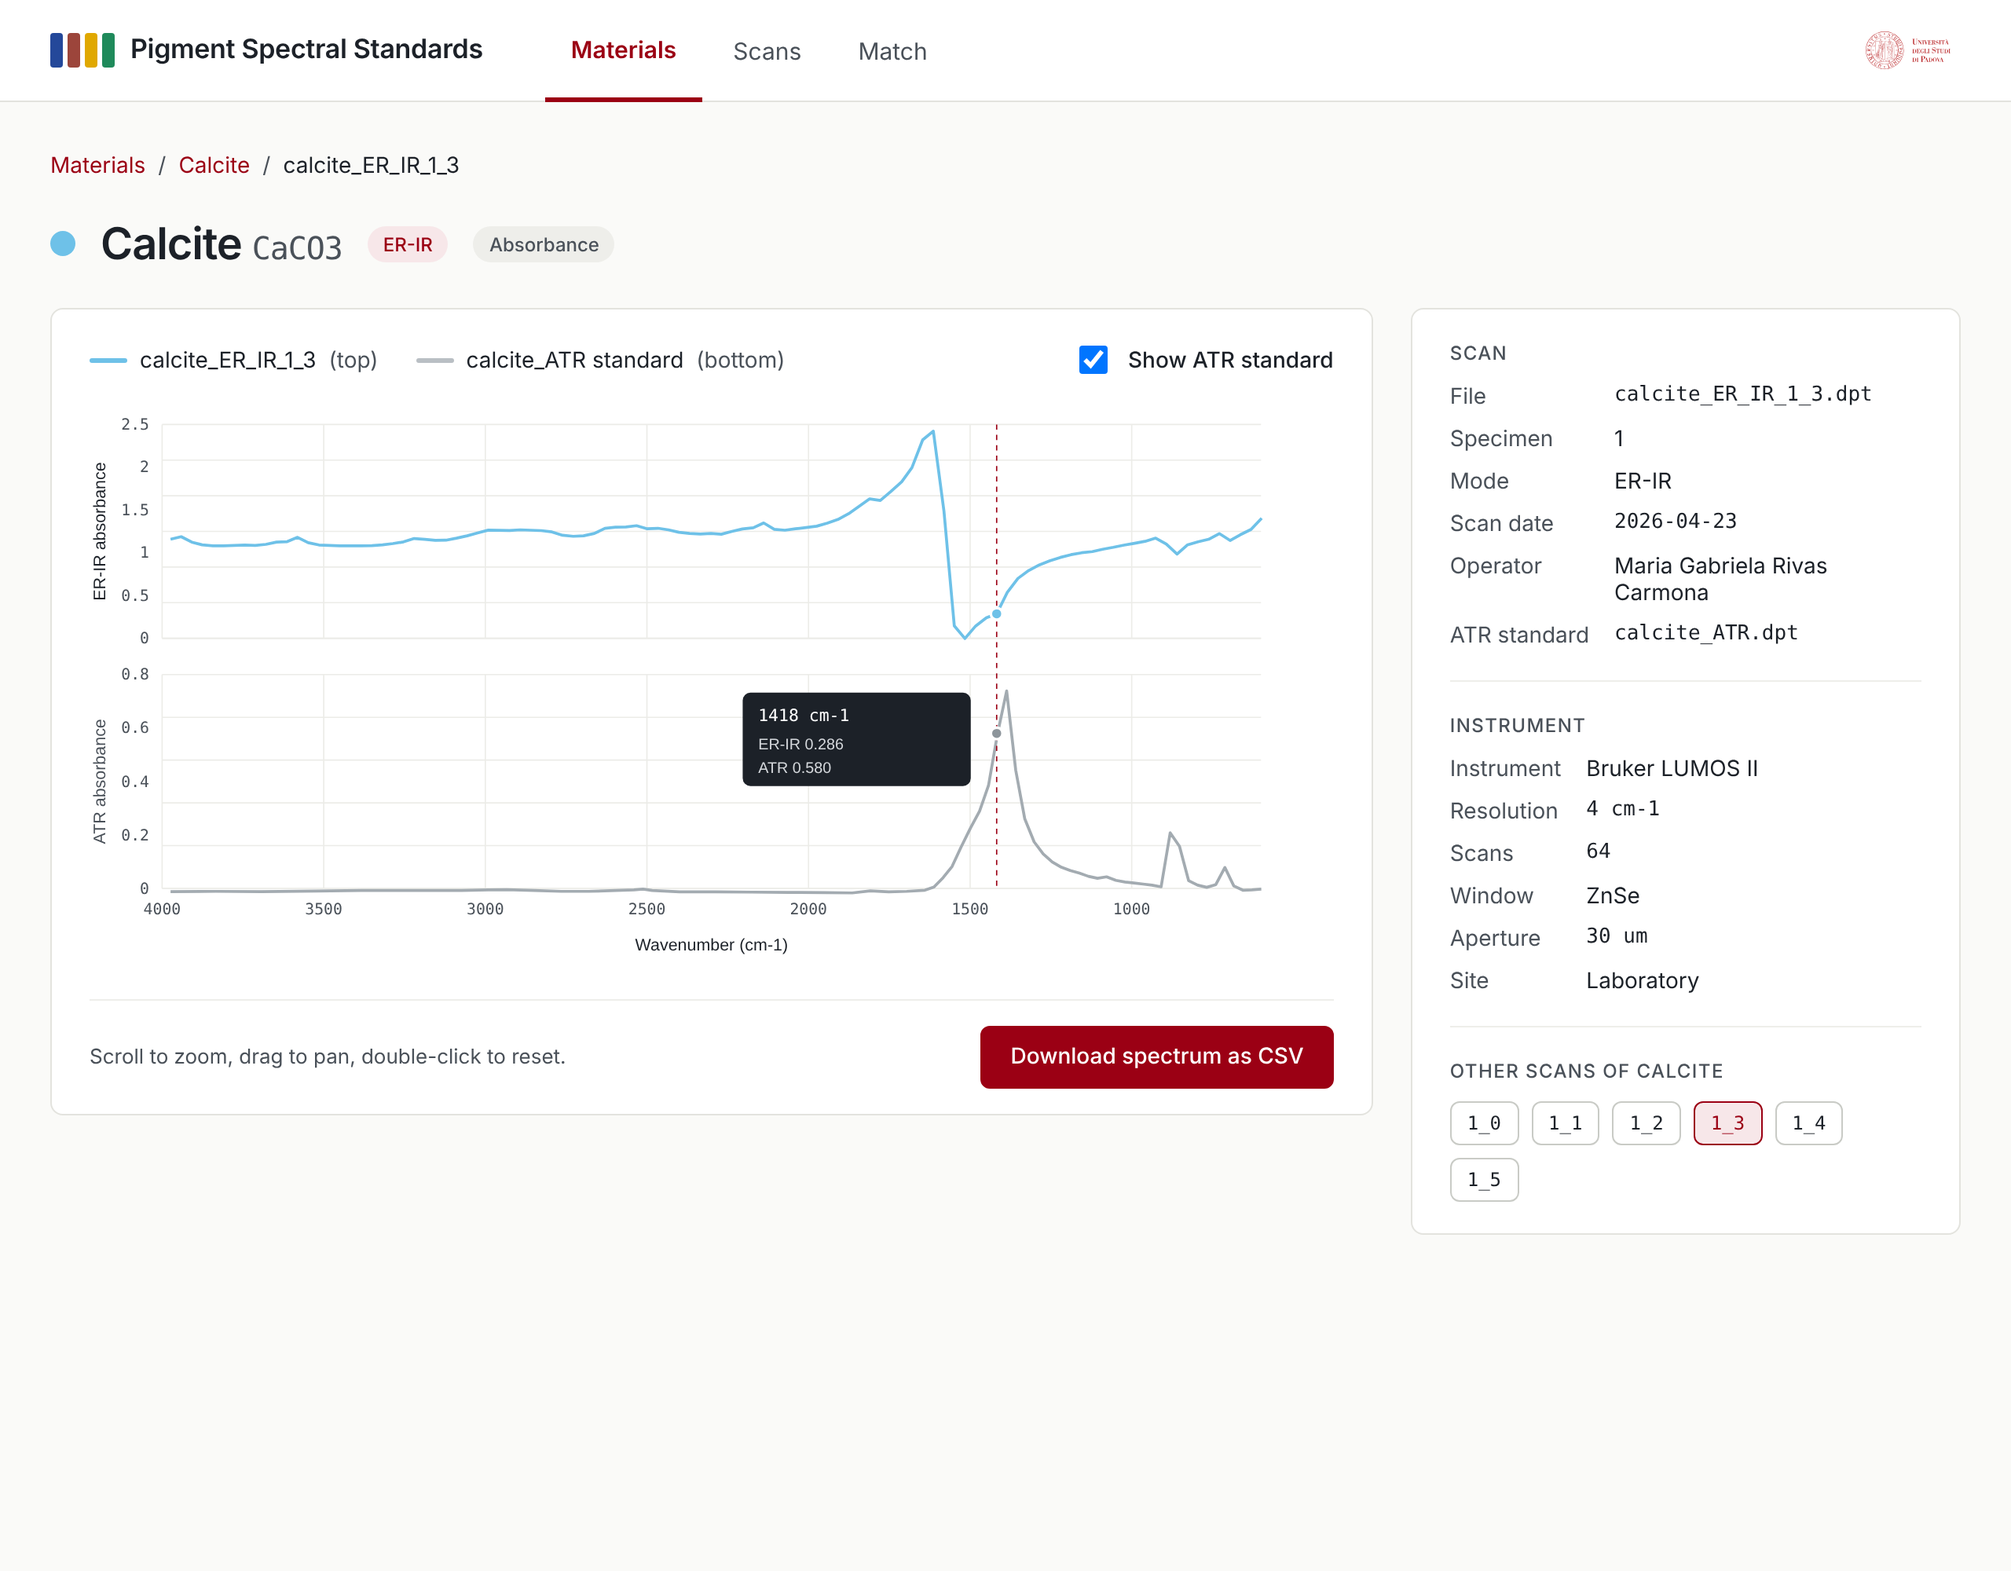
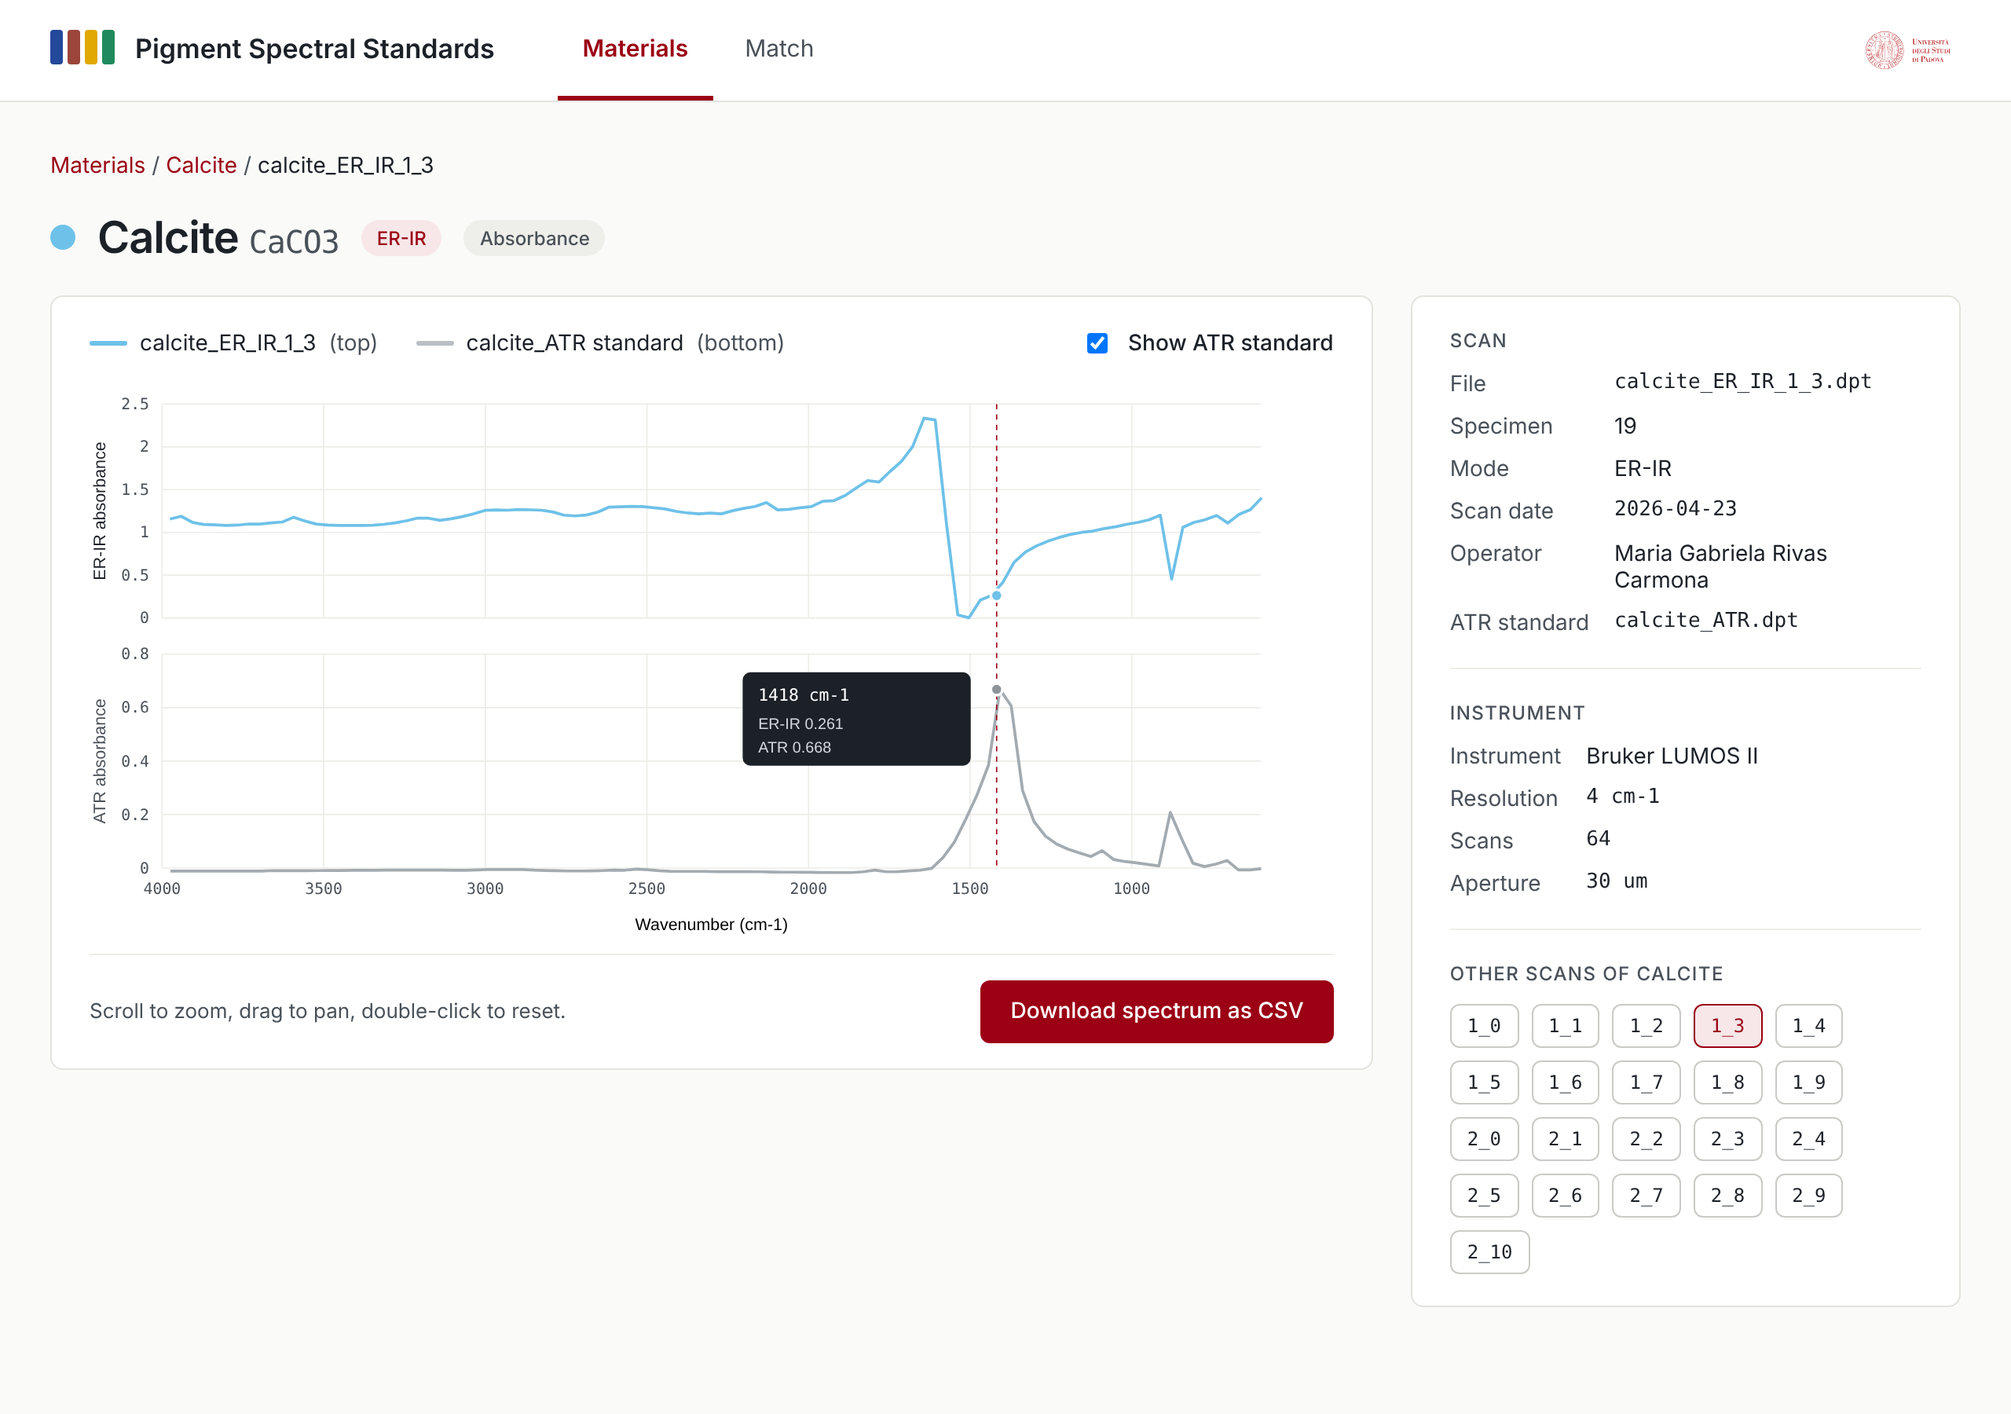
Mock-up: fix scan page to match the database (specimen 19, 21 calcite scans, no window or site rows); remove the separate Scans menu tab; re-render Figs 5.1-5.3
Claude-Session: https://claude.ai/code/session_01NLgYW8yJSeCtEKVkxKcHsd

diff --git a/ui/scan.html b/ui/scan.html
@@ -20,12 +20,12 @@ h2.s{margin:0 0 12px;font-size:12px;letter-spacing:.06em;text-transform:uppercas
 table{width:100%;border-collapse:collapse;font-size:15px}th{text-align:left;font:500 12px 'IBM Plex Mono',monospace;letter-spacing:.06em;color:#4a5159;padding:16px;border-bottom:1px solid #e3e3de}
 td{padding:13px 16px;border-bottom:1px solid #eeeeea}td.n,th.n{text-align:right}
 dl{margin:0;display:grid;grid-template-columns:auto 1fr;gap:10px 16px;font-size:14px}dt{color:#4a5159}dd{margin:0}
-</style></head><body><header><div class="brand"><span><i style="background:#24489a"></i><i style="background:#9C453B"></i><i style="background:#e0a800"></i><i style="background:#1f8a5b"></i></span>Pigment Spectral Standards</div><nav><a href="materials.html" class="on">Materials</a><a href="scan.html" class="">Scans</a><a href="match.html" class="">Match</a></nav><img src="unipd-logo.svg" alt="Università degli Studi di Padova"></header><main><div style="font-size:14px;color:#4a5159"><a href="materials.html">Materials</a> / <a href="materials.html">Calcite</a> / <span style="color:#1c2128">calcite_ER_IR_1_3</span></div>
+</style></head><body><header><div class="brand"><span><i style="background:#24489a"></i><i style="background:#9C453B"></i><i style="background:#e0a800"></i><i style="background:#1f8a5b"></i></span>Pigment Spectral Standards</div><nav><a href="materials.html" class="on">Materials</a><a href="match.html" class="">Match</a></nav><img src="unipd-logo.svg" alt="Università degli Studi di Padova"></header><main><div style="font-size:14px;color:#4a5159"><a href="materials.html">Materials</a> / <a href="materials.html">Calcite</a> / <span style="color:#1c2128">calcite_ER_IR_1_3</span></div>
 <div style="display:flex;align-items:center;gap:14px;flex-wrap:wrap"><span style="width:16px;height:16px;border-radius:50%;background:#6EC1E8"></span><h1 style="font-size:28px;font-weight:600">Calcite <span class="mono" style="font-size:20px;font-weight:400;color:#4a5159">CaCO3</span></h1><span class="pill" style="background:#f7e7e9;color:#9b0014">ER-IR</span><span class="pill" style="background:#eeeeea;color:#4a5159">Absorbance</span></div>
 <div class="cols"><section class="card" style="flex:999 1 640px;min-width:0;padding:20px 24px 16px"><div style="display:flex;justify-content:space-between;flex-wrap:wrap;gap:12px;font-size:14px"><div style="display:flex;gap:24px"><span style="display:flex;align-items:center;gap:8px"><i style="width:24px;height:3px;background:#6EC1E8;border-radius:2px"></i>calcite_ER_IR_1_3 <span style="color:#4a5159">(top)</span></span><span style="display:flex;align-items:center;gap:8px"><i style="width:24px;height:3px;background:#b9bfc4;border-radius:2px"></i>calcite_ATR standard <span style="color:#4a5159">(bottom)</span></span></div><label style="font-weight:500;display:flex;gap:10px;align-items:center"><input type="checkbox" checked> Show ATR standard</label></div>
 <svg id="p" viewBox="0 0 960 440" style="width:100%;height:auto;display:block;margin-top:16px" role="img" aria-label="Absorbance spectrum of calcite ER-IR scan 1_3 with the ATR standard stacked below it"></svg>
 <div style="display:flex;justify-content:space-between;align-items:center;flex-wrap:wrap;gap:12px;border-top:1px solid #eeeeea;padding-top:16px"><span style="font-size:13px;color:#4a5159">Scroll to zoom, drag to pan, double-click to reset.</span><button class="btn2">Download spectrum as CSV</button></div></section>
-<aside class="card" style="flex:1 1 300px;display:flex;flex-direction:column;gap:20px;padding:20px 24px"><div><h2 class="s">Scan</h2><dl><dt>File</dt><dd class="mono" style="font-size:13px">calcite_ER_IR_1_3.dpt</dd><dt>Specimen</dt><dd>1</dd><dt>Mode</dt><dd>ER-IR</dd><dt>Scan date</dt><dd class="mono" style="font-size:13px">2026-04-23</dd><dt>Operator</dt><dd>Maria Gabriela Rivas Carmona</dd><dt>ATR standard</dt><dd class="mono" style="font-size:13px">calcite_ATR.dpt</dd></dl></div>
-<div style="border-top:1px solid #eeeeea;padding-top:20px"><h2 class="s">Instrument</h2><dl><dt>Instrument</dt><dd>Bruker LUMOS II</dd><dt>Resolution</dt><dd class="mono" style="font-size:13px">4 cm-1</dd><dt>Scans</dt><dd class="mono" style="font-size:13px">64</dd><dt>Window</dt><dd>ZnSe</dd><dt>Aperture</dt><dd class="mono" style="font-size:13px">30 um</dd><dt>Site</dt><dd>Laboratory</dd></dl></div>
-<div style="border-top:1px solid #eeeeea;padding-top:20px"><h2 class="s">Other scans of calcite</h2><div style="display:flex;flex-wrap:wrap;gap:8px"><a style="font:12px IBM Plex Mono,monospace;padding:6px 10px;border:1px solid #c9cbc6;background:#fff;color:#1c2128;border-radius:6px">1_0</a><a style="font:12px IBM Plex Mono,monospace;padding:6px 10px;border:1px solid #c9cbc6;background:#fff;color:#1c2128;border-radius:6px">1_1</a><a style="font:12px IBM Plex Mono,monospace;padding:6px 10px;border:1px solid #c9cbc6;background:#fff;color:#1c2128;border-radius:6px">1_2</a><a style="font:12px IBM Plex Mono,monospace;padding:6px 10px;border:1px solid #9b0014;background:#f7e7e9;color:#9b0014;border-radius:6px">1_3</a><a style="font:12px IBM Plex Mono,monospace;padding:6px 10px;border:1px solid #c9cbc6;background:#fff;color:#1c2128;border-radius:6px">1_4</a><a style="font:12px IBM Plex Mono,monospace;padding:6px 10px;border:1px solid #c9cbc6;background:#fff;color:#1c2128;border-radius:6px">1_5</a></div></div></aside></div>
+<aside class="card" style="flex:1 1 300px;display:flex;flex-direction:column;gap:20px;padding:20px 24px"><div><h2 class="s">Scan</h2><dl><dt>File</dt><dd class="mono" style="font-size:13px">calcite_ER_IR_1_3.dpt</dd><dt>Specimen</dt><dd>19</dd><dt>Mode</dt><dd>ER-IR</dd><dt>Scan date</dt><dd class="mono" style="font-size:13px">2026-04-23</dd><dt>Operator</dt><dd>Maria Gabriela Rivas Carmona</dd><dt>ATR standard</dt><dd class="mono" style="font-size:13px">calcite_ATR.dpt</dd></dl></div>
+<div style="border-top:1px solid #eeeeea;padding-top:20px"><h2 class="s">Instrument</h2><dl><dt>Instrument</dt><dd>Bruker LUMOS II</dd><dt>Resolution</dt><dd class="mono" style="font-size:13px">4 cm-1</dd><dt>Scans</dt><dd class="mono" style="font-size:13px">64</dd><dt>Aperture</dt><dd class="mono" style="font-size:13px">30 um</dd></dl></div>
+<div style="border-top:1px solid #eeeeea;padding-top:20px"><h2 class="s">Other scans of calcite</h2><div style="display:flex;flex-wrap:wrap;gap:8px"><a style="font:12px IBM Plex Mono,monospace;padding:6px 10px;border:1px solid #c9cbc6;background:#fff;color:#1c2128;border-radius:6px">1_0</a><a style="font:12px IBM Plex Mono,monospace;padding:6px 10px;border:1px solid #c9cbc6;background:#fff;color:#1c2128;border-radius:6px">1_1</a><a style="font:12px IBM Plex Mono,monospace;padding:6px 10px;border:1px solid #c9cbc6;background:#fff;color:#1c2128;border-radius:6px">1_2</a><a style="font:12px IBM Plex Mono,monospace;padding:6px 10px;border:1px solid #9b0014;background:#f7e7e9;color:#9b0014;border-radius:6px">1_3</a><a style="font:12px IBM Plex Mono,monospace;padding:6px 10px;border:1px solid #c9cbc6;background:#fff;color:#1c2128;border-radius:6px">1_4</a><a style="font:12px IBM Plex Mono,monospace;padding:6px 10px;border:1px solid #c9cbc6;background:#fff;color:#1c2128;border-radius:6px">1_5</a><a style="font:12px IBM Plex Mono,monospace;padding:6px 10px;border:1px solid #c9cbc6;background:#fff;color:#1c2128;border-radius:6px">1_6</a><a style="font:12px IBM Plex Mono,monospace;padding:6px 10px;border:1px solid #c9cbc6;background:#fff;color:#1c2128;border-radius:6px">1_7</a><a style="font:12px IBM Plex Mono,monospace;padding:6px 10px;border:1px solid #c9cbc6;background:#fff;color:#1c2128;border-radius:6px">1_8</a><a style="font:12px IBM Plex Mono,monospace;padding:6px 10px;border:1px solid #c9cbc6;background:#fff;color:#1c2128;border-radius:6px">1_9</a><a style="font:12px IBM Plex Mono,monospace;padding:6px 10px;border:1px solid #c9cbc6;background:#fff;color:#1c2128;border-radius:6px">2_0</a><a style="font:12px IBM Plex Mono,monospace;padding:6px 10px;border:1px solid #c9cbc6;background:#fff;color:#1c2128;border-radius:6px">2_1</a><a style="font:12px IBM Plex Mono,monospace;padding:6px 10px;border:1px solid #c9cbc6;background:#fff;color:#1c2128;border-radius:6px">2_2</a><a style="font:12px IBM Plex Mono,monospace;padding:6px 10px;border:1px solid #c9cbc6;background:#fff;color:#1c2128;border-radius:6px">2_3</a><a style="font:12px IBM Plex Mono,monospace;padding:6px 10px;border:1px solid #c9cbc6;background:#fff;color:#1c2128;border-radius:6px">2_4</a><a style="font:12px IBM Plex Mono,monospace;padding:6px 10px;border:1px solid #c9cbc6;background:#fff;color:#1c2128;border-radius:6px">2_5</a><a style="font:12px IBM Plex Mono,monospace;padding:6px 10px;border:1px solid #c9cbc6;background:#fff;color:#1c2128;border-radius:6px">2_6</a><a style="font:12px IBM Plex Mono,monospace;padding:6px 10px;border:1px solid #c9cbc6;background:#fff;color:#1c2128;border-radius:6px">2_7</a><a style="font:12px IBM Plex Mono,monospace;padding:6px 10px;border:1px solid #c9cbc6;background:#fff;color:#1c2128;border-radius:6px">2_8</a><a style="font:12px IBM Plex Mono,monospace;padding:6px 10px;border:1px solid #c9cbc6;background:#fff;color:#1c2128;border-radius:6px">2_9</a><a style="font:12px IBM Plex Mono,monospace;padding:6px 10px;border:1px solid #c9cbc6;background:#fff;color:#1c2128;border-radius:6px">2_10</a></div></div></aside></div>
 </main><script src="data.js"></script><script src="plot.js"></script><script src="scan.js"></script></body></html>

diff --git a/ui/match.html b/ui/match.html
@@ -20,7 +20,7 @@ h2.s{margin:0 0 12px;font-size:12px;letter-spacing:.06em;text-transform:uppercas
 table{width:100%;border-collapse:collapse;font-size:15px}th{text-align:left;font:500 12px 'IBM Plex Mono',monospace;letter-spacing:.06em;color:#4a5159;padding:16px;border-bottom:1px solid #e3e3de}
 td{padding:13px 16px;border-bottom:1px solid #eeeeea}td.n,th.n{text-align:right}
 dl{margin:0;display:grid;grid-template-columns:auto 1fr;gap:10px 16px;font-size:14px}dt{color:#4a5159}dd{margin:0}
-</style></head><body><header><div class="brand"><span><i style="background:#24489a"></i><i style="background:#9C453B"></i><i style="background:#e0a800"></i><i style="background:#1f8a5b"></i></span>Pigment Spectral Standards</div><nav><a href="materials.html" class="">Materials</a><a href="scan.html" class="">Scans</a><a href="match.html" class="on">Match</a></nav><img src="unipd-logo.svg" alt="Università degli Studi di Padova"></header><main><div style="display:flex;justify-content:space-between;align-items:flex-end;gap:16px;flex-wrap:wrap"><div><h1>Match an unknown spectrum</h1><p class="lead" style="margin-top:12px">Upload an ER-IR spectrum and find the closest standards. Your file is used in your browser only and is never saved.</p></div><span style="font-size:13px;font-weight:500;padding:6px 14px;border-radius:999px;background:#fdf1cf;border:1px solid #f0d98a;color:#6b4e00">Mockup: scores and the unknown spectrum are example data</span></div>
+</style></head><body><header><div class="brand"><span><i style="background:#24489a"></i><i style="background:#9C453B"></i><i style="background:#e0a800"></i><i style="background:#1f8a5b"></i></span>Pigment Spectral Standards</div><nav><a href="materials.html" class="">Materials</a><a href="match.html" class="on">Match</a></nav><img src="unipd-logo.svg" alt="Università degli Studi di Padova"></header><main><div style="display:flex;justify-content:space-between;align-items:flex-end;gap:16px;flex-wrap:wrap"><div><h1>Match an unknown spectrum</h1><p class="lead" style="margin-top:12px">Upload an ER-IR spectrum and find the closest standards. Your file is used in your browser only and is never saved.</p></div><span style="font-size:13px;font-weight:500;padding:6px 14px;border-radius:999px;background:#fdf1cf;border:1px solid #f0d98a;color:#6b4e00">Mockup: scores and the unknown spectrum are example data</span></div>
 <div class="cols"><div style="flex:1 1 340px;max-width:380px;display:flex;flex-direction:column;gap:20px">
 <div class="card"><h2 class="s">1. Your spectrum</h2><div style="border:1.5px dashed #c9cbc6;border-radius:8px;padding:20px"><div style="font-weight:500">Drop a file here, or choose one</div><p style="font-size:13px;color:#4a5159;line-height:1.5">.dpt, .csv or .txt with two columns: wavenumber and intensity. Must be <b>absorbance</b>, within 650 to 3990 cm-1.</p><button style="height:40px;padding:0 16px;border:1px solid #9b0014;color:#9b0014;background:#fff;border-radius:6px;font:inherit;font-weight:500">Choose file</button></div>
 <div style="margin-top:14px;background:#eaf4ec;border-radius:6px;padding:12px;display:flex;justify-content:space-between;gap:8px;font-size:13px"><span class="mono" style="color:#1d5a35">unknown_object_spot3.dpt</span><span style="color:#4a5159">1,660 points, accepted</span></div></div>

diff --git a/ui/materials.html b/ui/materials.html
@@ -20,7 +20,7 @@ h2.s{margin:0 0 12px;font-size:12px;letter-spacing:.06em;text-transform:uppercas
 table{width:100%;border-collapse:collapse;font-size:15px}th{text-align:left;font:500 12px 'IBM Plex Mono',monospace;letter-spacing:.06em;color:#4a5159;padding:16px;border-bottom:1px solid #e3e3de}
 td{padding:13px 16px;border-bottom:1px solid #eeeeea}td.n,th.n{text-align:right}
 dl{margin:0;display:grid;grid-template-columns:auto 1fr;gap:10px 16px;font-size:14px}dt{color:#4a5159}dd{margin:0}
-</style></head><body><header><div class="brand"><span><i style="background:#24489a"></i><i style="background:#9C453B"></i><i style="background:#e0a800"></i><i style="background:#1f8a5b"></i></span>Pigment Spectral Standards</div><nav><a href="materials.html" class="on">Materials</a><a href="scan.html" class="">Scans</a><a href="match.html" class="">Match</a></nav><img src="unipd-logo.svg" alt="Università degli Studi di Padova"></header><main><h1>Materials</h1><p class="lead">Paired ER-IR and ATR spectra of mineral pigment standards, measured on a Bruker LUMOS II. ER-IR is what can be taken on an object; ATR is the reference it is compared with.</p>
+</style></head><body><header><div class="brand"><span><i style="background:#24489a"></i><i style="background:#9C453B"></i><i style="background:#e0a800"></i><i style="background:#1f8a5b"></i></span>Pigment Spectral Standards</div><nav><a href="materials.html" class="on">Materials</a><a href="match.html" class="">Match</a></nav><img src="unipd-logo.svg" alt="Università degli Studi di Padova"></header><main><h1>Materials</h1><p class="lead">Paired ER-IR and ATR spectra of mineral pigment standards, measured on a Bruker LUMOS II. ER-IR is what can be taken on an object; ATR is the reference it is compared with.</p>
 <div style="font-size:14px;display:flex;gap:28px"><span><b>20</b> materials</span><span><b>288</b> ER-IR scans</span><span><b>19</b> ATR standards</span></div>
 <div class="card" style="display:flex;gap:24px;align-items:flex-end;flex-wrap:wrap;font-size:12px;color:#4a5159"><label style="flex:1;min-width:220px">Search<input style="display:block;width:100%;height:40px;box-sizing:border-box;margin-top:6px;border:1px solid #c9cbc6;border-radius:6px;padding:0 12px;font:inherit;font-size:15px" placeholder="Name, formula or source"></label>
 <div>Type<div style="display:flex;margin-top:6px;border:1px solid #c9cbc6;border-radius:6px;overflow:hidden;font-size:15px;color:#1c2128"><span style="padding:10px 16px;background:#9b0014;color:#fff;font-weight:500">All</span><span style="padding:10px 16px">Natural</span><span style="padding:10px 16px">Synthetic</span></div></div>

diff --git a/ui/README.md b/ui/README.md
@@ -2,7 +2,7 @@
 
 A design for the web interface described in Chapter 5 of the thesis. It is a mock-up: three static pages with example data, no server and no matching. The interface itself has not been built.
 
-**To look at it:** open `materials.html` in a web browser. The three pages link to each other. Fonts load from Google Fonts; without a connection the browser uses its default font.
+**To look at it:** open `materials.html` in a web browser. The pages link to each other: the menu has Materials and Match, and the scan page opens from a material. Fonts load from Google Fonts; without a connection the browser uses its default font.
 
 | Page | File | Figure in the thesis |
 |---|---|---|
